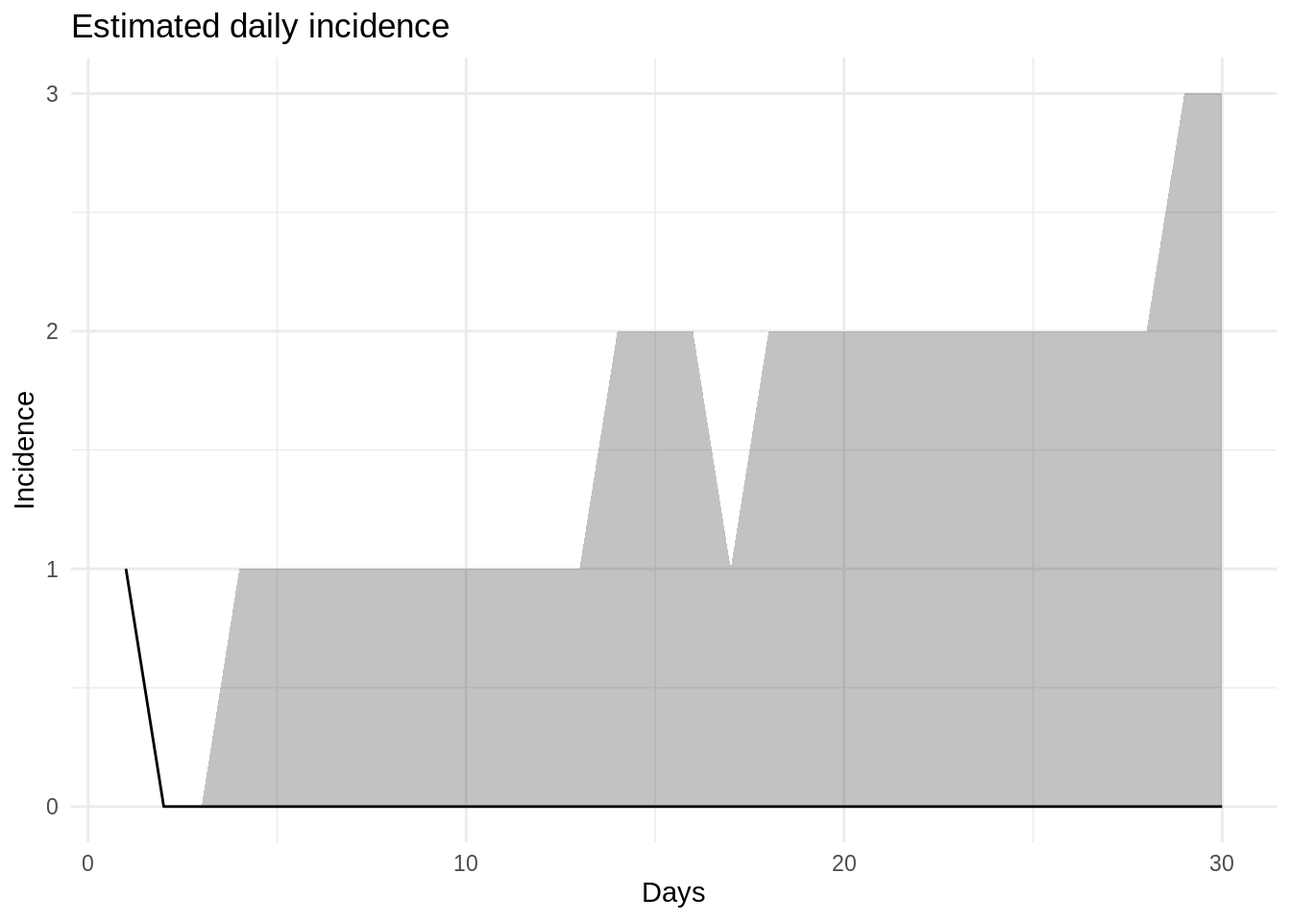
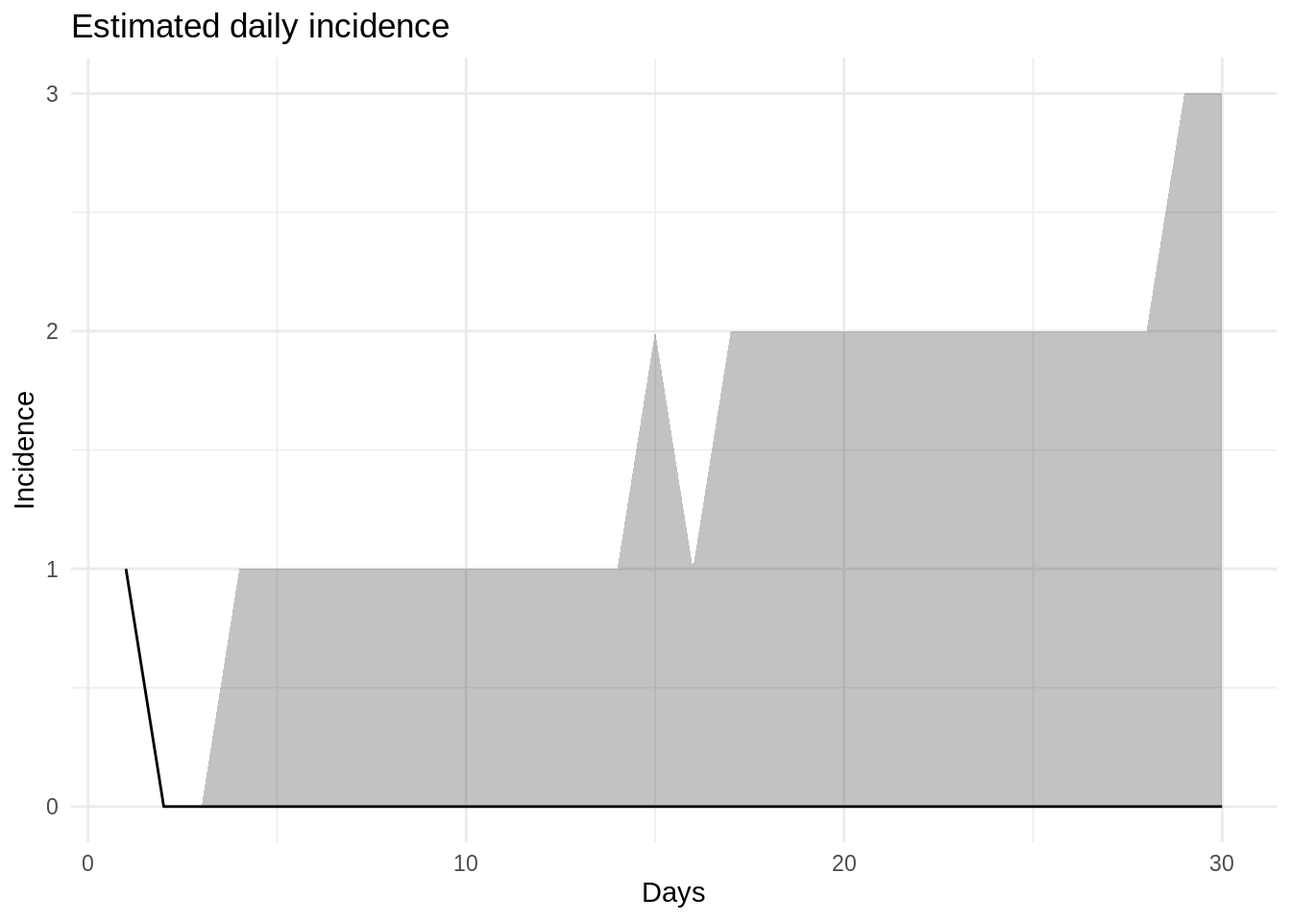
Deploy folkehelseinstituttet/spread to github.com/folkehelseinstituttet/spread.git:gh-pages

Changed region(s): [[0.4375, 0.3438, 0.5938, 0.625]]

diff --git a/articles/asymmetric_mobility_intro.html b/articles/asymmetric_mobility_intro.html
@@ -104,7 +104,7 @@
 <div class="sourceCode" id="cb1"><pre class="sourceCode r"><code class="sourceCode r"><a class="sourceLine" id="cb1-1" data-line-number="1"><span class="kw"><a href="https://rdrr.io/r/base/library.html">library</a></span>(spread)</a>
 <a class="sourceLine" id="cb1-2" data-line-number="2"><span class="co">#&gt; </span></a>
 <a class="sourceLine" id="cb1-3" data-line-number="3"><span class="co">#&gt; PACKAGE: spread</span></a>
-<a class="sourceLine" id="cb1-4" data-line-number="4"><span class="co">#&gt; Version: 2020.03.06 at 07:08</span></a>
+<a class="sourceLine" id="cb1-4" data-line-number="4"><span class="co">#&gt; Version: 2020.03.06 at 09:24</span></a>
 <a class="sourceLine" id="cb1-5" data-line-number="5"><span class="co">#&gt; </span></a>
 <a class="sourceLine" id="cb1-6" data-line-number="6"><span class="co">#&gt; Commuter model and C++ code developed by Solveig Engebretsen and Andreas Nygård Osnes</span></a>
 <a class="sourceLine" id="cb1-7" data-line-number="7"><span class="co">#&gt; Asymmetric mobility model and C++ code developed by Solveig Engebretsen</span></a>
@@ -152,130 +152,38 @@
 <p><code>b_*</code> variables represent the status of people belonging to a particular geographical location.</p>
 <p><code>c_*</code> variables represent the current status of all the people existing in that geographical location at that time point.</p>
 <div class="sourceCode" id="cb6"><pre class="sourceCode r"><code class="sourceCode r"><a class="sourceLine" id="cb6-1" data-line-number="1"><span class="kw"><a href="https://rdrr.io/r/base/print.html">print</a></span>(d)</a>
-<a class="sourceLine" id="cb6-2" data-line-number="2"><span class="co">#&gt;     location_code week day time  b_S b_E b_I b_Ia b_R  c_S c_E c_I c_Ia c_R</span></a>
-<a class="sourceLine" id="cb6-3" data-line-number="3"><span class="co">#&gt;  1:             a    1   1    0 1051   9  45    0   5 1011   9  45    0   5</span></a>
-<a class="sourceLine" id="cb6-4" data-line-number="4"><span class="co">#&gt;  2:             a    1   1    6 1042  18  38    0  12  962  18  38    0  12</span></a>
-<a class="sourceLine" id="cb6-5" data-line-number="5"><span class="co">#&gt;  3:             a    1   1   12 1038  22  34    0  16  921  21  32    0  16</span></a>
-<a class="sourceLine" id="cb6-6" data-line-number="6"><span class="co">#&gt;  4:             a    1   1   18 1034  20  37    0  19  880  20  34    0  16</span></a>
-<a class="sourceLine" id="cb6-7" data-line-number="7"><span class="co">#&gt;  5:             a    1   2    0 1029  22  36    0  23  840  21  31    0  18</span></a>
-<a class="sourceLine" id="cb6-8" data-line-number="8"><span class="co">#&gt;  6:             a    1   2    6 1026  21  38    0  25  801  18  33    0  18</span></a>
-<a class="sourceLine" id="cb6-9" data-line-number="9"><span class="co">#&gt;  7:             a    1   2   12 1024  19  41    0  26  763  16  34    0  17</span></a>
-<a class="sourceLine" id="cb6-10" data-line-number="10"><span class="co">#&gt;  8:             a    1   2   18 1021  18  43    0  28  720  15  36    0  19</span></a>
-<a class="sourceLine" id="cb6-11" data-line-number="11"><span class="co">#&gt;  9:             a    1   3    0 1016  20  44    0  30  681  16  35    0  18</span></a>
-<a class="sourceLine" id="cb6-12" data-line-number="12"><span class="co">#&gt; 10:             a    1   3    6 1012  23  43    0  32  642  19  30    0  19</span></a>
-<a class="sourceLine" id="cb6-13" data-line-number="13"><span class="co">#&gt; 11:             a    1   3   12 1007  27  34    0  42  605  21  20    0  24</span></a>
-<a class="sourceLine" id="cb6-14" data-line-number="14"><span class="co">#&gt; 12:             a    1   3   18 1001  30  36    0  43  564  22  20    0  24</span></a>
-<a class="sourceLine" id="cb6-15" data-line-number="15"><span class="co">#&gt; 13:             a    1   4    0  999  28  38    0  45  525  19  20    0  26</span></a>
-<a class="sourceLine" id="cb6-16" data-line-number="16"><span class="co">#&gt; 14:             a    1   4    6  996  28  35    0  51  490  19  16    0  25</span></a>
-<a class="sourceLine" id="cb6-17" data-line-number="17"><span class="co">#&gt; 15:             a    1   4   12  992  29  36    0  53  452  19  15    0  24</span></a>
-<a class="sourceLine" id="cb6-18" data-line-number="18"><span class="co">#&gt; 16:             a    1   4   18  986  33  34    0  57  414  24  12    0  20</span></a>
-<a class="sourceLine" id="cb6-19" data-line-number="19"><span class="co">#&gt; 17:             a    1   5    0  985  26  40    0  59  378  17  14    0  21</span></a>
-<a class="sourceLine" id="cb6-20" data-line-number="20"><span class="co">#&gt; 18:             a    1   5    6  977  32  39    0  62  335  17  16    0  22</span></a>
-<a class="sourceLine" id="cb6-21" data-line-number="21"><span class="co">#&gt; 19:             a    1   5   12  971  31  43    0  65  299  14  18    0  19</span></a>
-<a class="sourceLine" id="cb6-22" data-line-number="22"><span class="co">#&gt; 20:             a    1   5   18  967  29  46    0  68  264   9  19    0  18</span></a>
-<a class="sourceLine" id="cb6-23" data-line-number="23"><span class="co">#&gt; 21:             b    1   1    0 1020   0   0    0   0 1060   0   0    0   0</span></a>
-<a class="sourceLine" id="cb6-24" data-line-number="24"><span class="co">#&gt; 22:             b    1   1    6 1020   0   0    0   0 1100   0   0    0   0</span></a>
-<a class="sourceLine" id="cb6-25" data-line-number="25"><span class="co">#&gt; 23:             b    1   1   12 1020   0   0    0   0 1138   1   1    0   0</span></a>
-<a class="sourceLine" id="cb6-26" data-line-number="26"><span class="co">#&gt; 24:             b    1   1   18 1020   0   0    0   0 1174   0   3    0   3</span></a>
-<a class="sourceLine" id="cb6-27" data-line-number="27"><span class="co">#&gt; 25:             b    1   2    0 1018   2   0    0   0 1206   4   5    0   5</span></a>
-<a class="sourceLine" id="cb6-28" data-line-number="28"><span class="co">#&gt; 26:             b    1   2    6 1018   2   0    0   0 1243   5   5    0   7</span></a>
-<a class="sourceLine" id="cb6-29" data-line-number="29"><span class="co">#&gt; 27:             b    1   2   12 1017   2   1    0   0 1279   4   8    0   9</span></a>
-<a class="sourceLine" id="cb6-30" data-line-number="30"><span class="co">#&gt; 28:             b    1   2   18 1016   3   1    0   0 1317   6   8    0   9</span></a>
-<a class="sourceLine" id="cb6-31" data-line-number="31"><span class="co">#&gt; 29:             b    1   3    0 1014   5   1    0   0 1351   8   9    0  12</span></a>
-<a class="sourceLine" id="cb6-32" data-line-number="32"><span class="co">#&gt; 30:             b    1   3    6 1013   5   2    0   0 1383   9  15    0  13</span></a>
-<a class="sourceLine" id="cb6-33" data-line-number="33"><span class="co">#&gt; 31:             b    1   3   12 1012   6   1    0   1 1416  12  15    0  17</span></a>
-<a class="sourceLine" id="cb6-34" data-line-number="34"><span class="co">#&gt; 32:             b    1   3   18 1008   8   3    0   1 1445  16  19    0  20</span></a>
-<a class="sourceLine" id="cb6-35" data-line-number="35"><span class="co">#&gt; 33:             b    1   4    0 1004  11   4    0   1 1479  20  21    0  20</span></a>
-<a class="sourceLine" id="cb6-36" data-line-number="36"><span class="co">#&gt; 34:             b    1   4    6 1000  14   5    0   1 1506  23  24    0  27</span></a>
-<a class="sourceLine" id="cb6-37" data-line-number="37"><span class="co">#&gt; 35:             b    1   4   12  997  16   6    0   1 1537  26  27    0  30</span></a>
-<a class="sourceLine" id="cb6-38" data-line-number="38"><span class="co">#&gt; 36:             b    1   4   18  995  18   6    0   1 1567  27  28    0  38</span></a>
-<a class="sourceLine" id="cb6-39" data-line-number="39"><span class="co">#&gt; 37:             b    1   5    0  993  17   9    0   1 1602  25  34    0  39</span></a>
-<a class="sourceLine" id="cb6-40" data-line-number="40"><span class="co">#&gt; 38:             b    1   5    6  990  17  10    0   3 1632  32  33    0  43</span></a>
-<a class="sourceLine" id="cb6-41" data-line-number="41"><span class="co">#&gt; 39:             b    1   5   12  987  18  11    0   4 1660  35  35    0  50</span></a>
-<a class="sourceLine" id="cb6-42" data-line-number="42"><span class="co">#&gt; 40:             b    1   5   18  986  17  13    0   4 1689  37  40    0  54</span></a>
-<a class="sourceLine" id="cb6-43" data-line-number="43"><span class="co">#&gt; 41:             c    1   1    0 2020   0   0    0   0 2020   0   0    0   0</span></a>
-<a class="sourceLine" id="cb6-44" data-line-number="44"><span class="co">#&gt; 42:             c    1   1    6 2020   0   0    0   0 2020   0   0    0   0</span></a>
-<a class="sourceLine" id="cb6-45" data-line-number="45"><span class="co">#&gt; 43:             c    1   1   12 2020   0   0    0   0 2019   0   1    0   0</span></a>
-<a class="sourceLine" id="cb6-46" data-line-number="46"><span class="co">#&gt; 44:             c    1   1   18 2020   0   0    0   0 2020   0   0    0   0</span></a>
-<a class="sourceLine" id="cb6-47" data-line-number="47"><span class="co">#&gt; 45:             c    1   2    0 2019   1   0    0   0 2020   0   0    0   0</span></a>
-<a class="sourceLine" id="cb6-48" data-line-number="48"><span class="co">#&gt; 46:             c    1   2    6 2019   1   0    0   0 2019   1   0    0   0</span></a>
-<a class="sourceLine" id="cb6-49" data-line-number="49"><span class="co">#&gt; 47:             c    1   2   12 2019   1   0    0   0 2018   2   0    0   0</span></a>
-<a class="sourceLine" id="cb6-50" data-line-number="50"><span class="co">#&gt; 48:             c    1   2   18 2019   1   0    0   0 2019   1   0    0   0</span></a>
-<a class="sourceLine" id="cb6-51" data-line-number="51"><span class="co">#&gt; 49:             c    1   3    0 2019   1   0    0   0 2017   2   1    0   0</span></a>
-<a class="sourceLine" id="cb6-52" data-line-number="52"><span class="co">#&gt; 50:             c    1   3    6 2019   1   0    0   0 2019   1   0    0   0</span></a>
-<a class="sourceLine" id="cb6-53" data-line-number="53"><span class="co">#&gt; 51:             c    1   3   12 2019   1   0    0   0 2017   1   0    0   2</span></a>
-<a class="sourceLine" id="cb6-54" data-line-number="54"><span class="co">#&gt; 52:             c    1   3   18 2019   1   0    0   0 2019   1   0    0   0</span></a>
-<a class="sourceLine" id="cb6-55" data-line-number="55"><span class="co">#&gt; 53:             c    1   4    0 2019   0   1    0   0 2018   0   2    0   0</span></a>
-<a class="sourceLine" id="cb6-56" data-line-number="56"><span class="co">#&gt; 54:             c    1   4    6 2019   0   1    0   0 2019   0   1    0   0</span></a>
-<a class="sourceLine" id="cb6-57" data-line-number="57"><span class="co">#&gt; 55:             c    1   4   12 2019   0   1    0   0 2019   0   1    0   0</span></a>
-<a class="sourceLine" id="cb6-58" data-line-number="58"><span class="co">#&gt; 56:             c    1   4   18 2019   0   1    0   0 2019   0   1    0   0</span></a>
-<a class="sourceLine" id="cb6-59" data-line-number="59"><span class="co">#&gt; 57:             c    1   5    0 2019   0   1    0   0 2017   1   2    0   0</span></a>
-<a class="sourceLine" id="cb6-60" data-line-number="60"><span class="co">#&gt; 58:             c    1   5    6 2019   0   1    0   0 2019   0   1    0   0</span></a>
-<a class="sourceLine" id="cb6-61" data-line-number="61"><span class="co">#&gt; 59:             c    1   5   12 2019   0   1    0   0 2018   0   2    0   0</span></a>
-<a class="sourceLine" id="cb6-62" data-line-number="62"><span class="co">#&gt; 60:             c    1   5   18 2019   0   1    0   0 2019   0   1    0   0</span></a>
-<a class="sourceLine" id="cb6-63" data-line-number="63"><span class="co">#&gt;     location_code week day time  b_S b_E b_I b_Ia b_R  c_S c_E c_I c_Ia c_R</span></a>
-<a class="sourceLine" id="cb6-64" data-line-number="64"><span class="co">#&gt;     c_incidence</span></a>
-<a class="sourceLine" id="cb6-65" data-line-number="65"><span class="co">#&gt;  1:           0</span></a>
-<a class="sourceLine" id="cb6-66" data-line-number="66"><span class="co">#&gt;  2:           0</span></a>
-<a class="sourceLine" id="cb6-67" data-line-number="67"><span class="co">#&gt;  3:           0</span></a>
-<a class="sourceLine" id="cb6-68" data-line-number="68"><span class="co">#&gt;  4:           5</span></a>
-<a class="sourceLine" id="cb6-69" data-line-number="69"><span class="co">#&gt;  5:           2</span></a>
-<a class="sourceLine" id="cb6-70" data-line-number="70"><span class="co">#&gt;  6:           3</span></a>
-<a class="sourceLine" id="cb6-71" data-line-number="71"><span class="co">#&gt;  7:           2</span></a>
-<a class="sourceLine" id="cb6-72" data-line-number="72"><span class="co">#&gt;  8:           4</span></a>
-<a class="sourceLine" id="cb6-73" data-line-number="73"><span class="co">#&gt;  9:           2</span></a>
-<a class="sourceLine" id="cb6-74" data-line-number="74"><span class="co">#&gt; 10:           1</span></a>
-<a class="sourceLine" id="cb6-75" data-line-number="75"><span class="co">#&gt; 11:           0</span></a>
-<a class="sourceLine" id="cb6-76" data-line-number="76"><span class="co">#&gt; 12:           3</span></a>
-<a class="sourceLine" id="cb6-77" data-line-number="77"><span class="co">#&gt; 13:           3</span></a>
-<a class="sourceLine" id="cb6-78" data-line-number="78"><span class="co">#&gt; 14:           0</span></a>
-<a class="sourceLine" id="cb6-79" data-line-number="79"><span class="co">#&gt; 15:           2</span></a>
-<a class="sourceLine" id="cb6-80" data-line-number="80"><span class="co">#&gt; 16:           0</span></a>
-<a class="sourceLine" id="cb6-81" data-line-number="81"><span class="co">#&gt; 17:           6</span></a>
-<a class="sourceLine" id="cb6-82" data-line-number="82"><span class="co">#&gt; 18:           2</span></a>
-<a class="sourceLine" id="cb6-83" data-line-number="83"><span class="co">#&gt; 19:           3</span></a>
-<a class="sourceLine" id="cb6-84" data-line-number="84"><span class="co">#&gt; 20:           3</span></a>
-<a class="sourceLine" id="cb6-85" data-line-number="85"><span class="co">#&gt; 21:           0</span></a>
-<a class="sourceLine" id="cb6-86" data-line-number="86"><span class="co">#&gt; 22:           0</span></a>
-<a class="sourceLine" id="cb6-87" data-line-number="87"><span class="co">#&gt; 23:           0</span></a>
-<a class="sourceLine" id="cb6-88" data-line-number="88"><span class="co">#&gt; 24:           1</span></a>
-<a class="sourceLine" id="cb6-89" data-line-number="89"><span class="co">#&gt; 25:           1</span></a>
-<a class="sourceLine" id="cb6-90" data-line-number="90"><span class="co">#&gt; 26:           1</span></a>
-<a class="sourceLine" id="cb6-91" data-line-number="91"><span class="co">#&gt; 27:           3</span></a>
-<a class="sourceLine" id="cb6-92" data-line-number="92"><span class="co">#&gt; 28:           0</span></a>
-<a class="sourceLine" id="cb6-93" data-line-number="93"><span class="co">#&gt; 29:           1</span></a>
-<a class="sourceLine" id="cb6-94" data-line-number="94"><span class="co">#&gt; 30:           1</span></a>
-<a class="sourceLine" id="cb6-95" data-line-number="95"><span class="co">#&gt; 31:           1</span></a>
-<a class="sourceLine" id="cb6-96" data-line-number="96"><span class="co">#&gt; 32:           2</span></a>
-<a class="sourceLine" id="cb6-97" data-line-number="97"><span class="co">#&gt; 33:           1</span></a>
-<a class="sourceLine" id="cb6-98" data-line-number="98"><span class="co">#&gt; 34:           4</span></a>
-<a class="sourceLine" id="cb6-99" data-line-number="99"><span class="co">#&gt; 35:           2</span></a>
-<a class="sourceLine" id="cb6-100" data-line-number="100"><span class="co">#&gt; 36:           2</span></a>
-<a class="sourceLine" id="cb6-101" data-line-number="101"><span class="co">#&gt; 37:           5</span></a>
-<a class="sourceLine" id="cb6-102" data-line-number="102"><span class="co">#&gt; 38:           3</span></a>
-<a class="sourceLine" id="cb6-103" data-line-number="103"><span class="co">#&gt; 39:           5</span></a>
-<a class="sourceLine" id="cb6-104" data-line-number="104"><span class="co">#&gt; 40:           5</span></a>
-<a class="sourceLine" id="cb6-105" data-line-number="105"><span class="co">#&gt; 41:           0</span></a>
-<a class="sourceLine" id="cb6-106" data-line-number="106"><span class="co">#&gt; 42:           0</span></a>
-<a class="sourceLine" id="cb6-107" data-line-number="107"><span class="co">#&gt; 43:           0</span></a>
-<a class="sourceLine" id="cb6-108" data-line-number="108"><span class="co">#&gt; 44:           0</span></a>
-<a class="sourceLine" id="cb6-109" data-line-number="109"><span class="co">#&gt; 45:           0</span></a>
-<a class="sourceLine" id="cb6-110" data-line-number="110"><span class="co">#&gt; 46:           0</span></a>
-<a class="sourceLine" id="cb6-111" data-line-number="111"><span class="co">#&gt; 47:           0</span></a>
-<a class="sourceLine" id="cb6-112" data-line-number="112"><span class="co">#&gt; 48:           0</span></a>
-<a class="sourceLine" id="cb6-113" data-line-number="113"><span class="co">#&gt; 49:           0</span></a>
-<a class="sourceLine" id="cb6-114" data-line-number="114"><span class="co">#&gt; 50:           0</span></a>
-<a class="sourceLine" id="cb6-115" data-line-number="115"><span class="co">#&gt; 51:           0</span></a>
-<a class="sourceLine" id="cb6-116" data-line-number="116"><span class="co">#&gt; 52:           0</span></a>
-<a class="sourceLine" id="cb6-117" data-line-number="117"><span class="co">#&gt; 53:           2</span></a>
-<a class="sourceLine" id="cb6-118" data-line-number="118"><span class="co">#&gt; 54:           0</span></a>
-<a class="sourceLine" id="cb6-119" data-line-number="119"><span class="co">#&gt; 55:           0</span></a>
-<a class="sourceLine" id="cb6-120" data-line-number="120"><span class="co">#&gt; 56:           0</span></a>
-<a class="sourceLine" id="cb6-121" data-line-number="121"><span class="co">#&gt; 57:           0</span></a>
-<a class="sourceLine" id="cb6-122" data-line-number="122"><span class="co">#&gt; 58:           0</span></a>
-<a class="sourceLine" id="cb6-123" data-line-number="123"><span class="co">#&gt; 59:           1</span></a>
-<a class="sourceLine" id="cb6-124" data-line-number="124"><span class="co">#&gt; 60:           0</span></a>
-<a class="sourceLine" id="cb6-125" data-line-number="125"><span class="co">#&gt;     c_incidence</span></a></code></pre></div>
+<a class="sourceLine" id="cb6-2" data-line-number="2"><span class="co">#&gt;     location_code week day  time  b_S b_E b_I b_Ia b_R  c_S c_E c_I c_Ia c_R</span></a>
+<a class="sourceLine" id="cb6-3" data-line-number="3"><span class="co">#&gt;  1:             a    1   1 23:59  986  11  35    0  18  835   9  32    0  14</span></a>
+<a class="sourceLine" id="cb6-4" data-line-number="4"><span class="co">#&gt;  2:             a    1   2 23:59  967  23  34    0  26  670  20  21    0  19</span></a>
+<a class="sourceLine" id="cb6-5" data-line-number="5"><span class="co">#&gt;  3:             a    1   3 23:59  959  21  37    0  33  516  14  21    0  19</span></a>
+<a class="sourceLine" id="cb6-6" data-line-number="6"><span class="co">#&gt;  4:             a    1   4 23:59  943  26  36    0  45  359  15  15    0  21</span></a>
+<a class="sourceLine" id="cb6-7" data-line-number="7"><span class="co">#&gt;  5:             a    1   5 23:59  934  26  33    0  57  217   9  10    0  14</span></a>
+<a class="sourceLine" id="cb6-8" data-line-number="8"><span class="co">#&gt;  6:             b    1   1 23:59  999   1   0    0   0 1150   3   3    0   4</span></a>
+<a class="sourceLine" id="cb6-9" data-line-number="9"><span class="co">#&gt;  7:             b    1   2 23:59  995   5   0    0   0 1292   8  13    0   7</span></a>
+<a class="sourceLine" id="cb6-10" data-line-number="10"><span class="co">#&gt;  8:             b    1   3 23:59  993   5   1    0   1 1436  12  17    0  15</span></a>
+<a class="sourceLine" id="cb6-11" data-line-number="11"><span class="co">#&gt;  9:             b    1   4 23:59  986   8   5    0   1 1570  19  26    0  25</span></a>
+<a class="sourceLine" id="cb6-12" data-line-number="12"><span class="co">#&gt; 10:             b    1   5 23:59  978   9  10    0   3 1695  26  33    0  46</span></a>
+<a class="sourceLine" id="cb6-13" data-line-number="13"><span class="co">#&gt; 11:             c    1   1 23:59 2000   0   0    0   0 2000   0   0    0   0</span></a>
+<a class="sourceLine" id="cb6-14" data-line-number="14"><span class="co">#&gt; 12:             c    1   2 23:59 2000   0   0    0   0 2000   0   0    0   0</span></a>
+<a class="sourceLine" id="cb6-15" data-line-number="15"><span class="co">#&gt; 13:             c    1   3 23:59 1999   1   0    0   0 1999   1   0    0   0</span></a>
+<a class="sourceLine" id="cb6-16" data-line-number="16"><span class="co">#&gt; 14:             c    1   4 23:59 1997   2   1    0   0 1997   2   1    0   0</span></a>
+<a class="sourceLine" id="cb6-17" data-line-number="17"><span class="co">#&gt; 15:             c    1   5 23:59 1995   3   2    0   0 1995   3   2    0   0</span></a>
+<a class="sourceLine" id="cb6-18" data-line-number="18"><span class="co">#&gt;     c_incidence</span></a>
+<a class="sourceLine" id="cb6-19" data-line-number="19"><span class="co">#&gt;  1:           1</span></a>
+<a class="sourceLine" id="cb6-20" data-line-number="20"><span class="co">#&gt;  2:           2</span></a>
+<a class="sourceLine" id="cb6-21" data-line-number="21"><span class="co">#&gt;  3:           2</span></a>
+<a class="sourceLine" id="cb6-22" data-line-number="22"><span class="co">#&gt;  4:           1</span></a>
+<a class="sourceLine" id="cb6-23" data-line-number="23"><span class="co">#&gt;  5:           1</span></a>
+<a class="sourceLine" id="cb6-24" data-line-number="24"><span class="co">#&gt;  6:           0</span></a>
+<a class="sourceLine" id="cb6-25" data-line-number="25"><span class="co">#&gt;  7:           0</span></a>
+<a class="sourceLine" id="cb6-26" data-line-number="26"><span class="co">#&gt;  8:           0</span></a>
+<a class="sourceLine" id="cb6-27" data-line-number="27"><span class="co">#&gt;  9:           4</span></a>
+<a class="sourceLine" id="cb6-28" data-line-number="28"><span class="co">#&gt; 10:           7</span></a>
+<a class="sourceLine" id="cb6-29" data-line-number="29"><span class="co">#&gt; 11:           0</span></a>
+<a class="sourceLine" id="cb6-30" data-line-number="30"><span class="co">#&gt; 12:           0</span></a>
+<a class="sourceLine" id="cb6-31" data-line-number="31"><span class="co">#&gt; 13:           0</span></a>
+<a class="sourceLine" id="cb6-32" data-line-number="32"><span class="co">#&gt; 14:           0</span></a>
+<a class="sourceLine" id="cb6-33" data-line-number="33"><span class="co">#&gt; 15:           0</span></a></code></pre></div>
 </div>
   </div>
 

diff --git a/reference/asymmetric_mobility.html b/reference/asymmetric_mobility.html
@@ -192,130 +192,38 @@
   <span class='kw'>asymptomatic_prob</span> <span class='kw'>=</span> <span class='fl'>0</span>,
   <span class='kw'>asymptomatic_relative_infectiousness</span> <span class='kw'>=</span> <span class='fl'>0</span>,
   <span class='kw'>N</span> <span class='kw'>=</span> <span class='fl'>1</span>
-)</div><div class='output co'>#&gt;     location_code week day time  b_S b_E b_I b_Ia b_R  c_S c_E c_I c_Ia c_R
-#&gt;  1:             a    1   1    0 1050  10  48    0   2 1010  10  48    0   2
-#&gt;  2:             a    1   1    6 1045  14  45    0   6  968  14  42    0   6
-#&gt;  3:             a    1   1   12 1041  17  45    0   7  929  17  37    0   7
-#&gt;  4:             a    1   1   18 1035  23  42    0  10  886  23  33    0   8
-#&gt;  5:             a    1   2    0 1031  25  40    0  14  843  24  31    0  12
-#&gt;  6:             a    1   2    6 1026  27  42    0  15  801  24  34    0  11
-#&gt;  7:             a    1   2   12 1022  28  40    0  20  764  26  26    0  14
-#&gt;  8:             a    1   2   18 1019  28  39    0  24  723  25  24    0  18
-#&gt;  9:             a    1   3    0 1018  28  32    0  32  685  24  19    0  22
-#&gt; 10:             a    1   3    6 1014  29  33    0  34  644  24  18    0  24
-#&gt; 11:             a    1   3   12 1012  26  30    0  42  607  19  16    0  28
-#&gt; 12:             a    1   3   18 1012  23  31    0  44  571  17  15    0  27
-#&gt; 13:             a    1   4    0 1009  19  37    0  45  538   8  19    0  25
-#&gt; 14:             a    1   4    6 1007  18  37    0  48  502   7  17    0  24
-#&gt; 15:             a    1   4   12 1004  18  38    0  50  463   9  14    0  24
-#&gt; 16:             a    1   4   18  999  22  35    0  54  420  11  16    0  23
-#&gt; 17:             a    1   5    0  995  25  28    0  62  379  14  11    0  26
-#&gt; 18:             a    1   5    6  992  27  25    0  66  340  15   8    0  27
-#&gt; 19:             a    1   5   12  990  22  29    0  69  306   9   8    0  27
-#&gt; 20:             a    1   5   18  985  24  28    0  73  268   8   8    0  26
-#&gt; 21:             b    1   1    0 1020   0   0    0   0 1060   0   0    0   0
-#&gt; 22:             b    1   1    6 1019   1   0    0   0 1096   1   3    0   0
-#&gt; 23:             b    1   1   12 1017   2   1    0   0 1129   2   9    0   0
-#&gt; 24:             b    1   1   18 1017   2   1    0   0 1166   2  10    0   2
-#&gt; 25:             b    1   2    0 1017   2   1    0   0 1205   3  10    0   2
-#&gt; 26:             b    1   2    6 1017   2   0    0   1 1242   5   8    0   5
-#&gt; 27:             b    1   2   12 1016   3   0    0   1 1276   5  13    0   6
-#&gt; 28:             b    1   2   18 1015   3   1    0   1 1311   6  16    0   7
-#&gt; 29:             b    1   3    0 1012   5   2    0   1 1345   9  15    0  11
-#&gt; 30:             b    1   3    6 1010   6   3    0   1 1380  11  18    0  11
-#&gt; 31:             b    1   3   12 1007   8   4    0   1 1413  14  18    0  15
-#&gt; 32:             b    1   3   18 1004  11   4    0   1 1445  17  20    0  18
-#&gt; 33:             b    1   4    0 1003   8   8    0   1 1476  18  26    0  20
-#&gt; 34:             b    1   4    6 1000  11   8    0   1 1505  22  28    0  25
-#&gt; 35:             b    1   4   12 1000   8  11    0   1 1543  17  34    0  26
-#&gt; 36:             b    1   4   18  999   9  10    0   2 1578  20  29    0  33
-#&gt; 37:             b    1   5    0  997   9   8    0   6 1614  20  24    0  42
-#&gt; 38:             b    1   5    6  993  10  11    0   6 1645  22  28    0  45
-#&gt; 39:             b    1   5   12  989  12  12    0   7 1675  25  32    0  48
-#&gt; 40:             b    1   5   18  984  14  15    0   7 1701  30  35    0  54
-#&gt; 41:             c    1   1    0 2020   0   0    0   0 2020   0   0    0   0
-#&gt; 42:             c    1   1    6 2020   0   0    0   0 2020   0   0    0   0
-#&gt; 43:             c    1   1   12 2020   0   0    0   0 2020   0   0    0   0
-#&gt; 44:             c    1   1   18 2020   0   0    0   0 2020   0   0    0   0
-#&gt; 45:             c    1   2    0 2020   0   0    0   0 2020   0   0    0   0
-#&gt; 46:             c    1   2    6 2020   0   0    0   0 2020   0   0    0   0
-#&gt; 47:             c    1   2   12 2020   0   0    0   0 2018   0   1    0   1
-#&gt; 48:             c    1   2   18 2020   0   0    0   0 2020   0   0    0   0
-#&gt; 49:             c    1   3    0 2020   0   0    0   0 2020   0   0    0   0
-#&gt; 50:             c    1   3    6 2020   0   0    0   0 2020   0   0    0   0
-#&gt; 51:             c    1   3   12 2020   0   0    0   0 2019   1   0    0   0
-#&gt; 52:             c    1   3   18 2020   0   0    0   0 2020   0   0    0   0
-#&gt; 53:             c    1   4    0 2020   0   0    0   0 2018   1   0    0   1
-#&gt; 54:             c    1   4    6 2020   0   0    0   0 2020   0   0    0   0
-#&gt; 55:             c    1   4   12 2020   0   0    0   0 2018   0   1    0   1
-#&gt; 56:             c    1   4   18 2020   0   0    0   0 2020   0   0    0   0
-#&gt; 57:             c    1   5    0 2020   0   0    0   0 2019   0   1    0   0
-#&gt; 58:             c    1   5    6 2020   0   0    0   0 2020   0   0    0   0
-#&gt; 59:             c    1   5   12 2020   0   0    0   0 2018   0   1    0   1
-#&gt; 60:             c    1   5   18 2020   0   0    0   0 2020   0   0    0   0
-#&gt;     location_code week day time  b_S b_E b_I b_Ia b_R  c_S c_E c_I c_Ia c_R
+)</div><div class='output co'>#&gt;     location_code week day  time  b_S b_E b_I b_Ia b_R  c_S c_E c_I c_Ia c_R
+#&gt;  1:             a    1   1 23:59  975  23  42    0  10  826  23  33    0   8
+#&gt;  2:             a    1   2 23:59  960  27  37    0  26  666  23  23    0  18
+#&gt;  3:             a    1   3 23:59  947  28  33    0  42  510  19  20    0  21
+#&gt;  4:             a    1   4 23:59  932  27  39    0  52  360  12  23    0  15
+#&gt;  5:             a    1   5 23:59  914  29  33    0  74  211   9  11    0  19
+#&gt;  6:             b    1   1 23:59  997   2   1    0   0 1146   2  10    0   2
+#&gt;  7:             b    1   2 23:59  995   3   2    0   0 1289   7  16    0   8
+#&gt;  8:             b    1   3 23:59  985  11   3    0   1 1422  20  16    0  22
+#&gt;  9:             b    1   4 23:59  981   7  10    0   2 1553  22  26    0  39
+#&gt; 10:             b    1   5 23:59  970  11  15    0   4 1673  31  37    0  59
+#&gt; 11:             c    1   1 23:59 2000   0   0    0   0 2000   0   0    0   0
+#&gt; 12:             c    1   2 23:59 2000   0   0    0   0 2000   0   0    0   0
+#&gt; 13:             c    1   3 23:59 2000   0   0    0   0 2000   0   0    0   0
+#&gt; 14:             c    1   4 23:59 2000   0   0    0   0 2000   0   0    0   0
+#&gt; 15:             c    1   5 23:59 2000   0   0    0   0 2000   0   0    0   0
 #&gt;     c_incidence
 #&gt;  1:           0
-#&gt;  2:           1
-#&gt;  3:           1
-#&gt;  4:           0
-#&gt;  5:           2
-#&gt;  6:           2
-#&gt;  7:           2
-#&gt;  8:           3
+#&gt;  2:           3
+#&gt;  3:           2
+#&gt;  4:           2
+#&gt;  5:           1
+#&gt;  6:           0
+#&gt;  7:           1
+#&gt;  8:           1
 #&gt;  9:           1
-#&gt; 10:           3
-#&gt; 11:           5
-#&gt; 12:           2
-#&gt; 13:           6
-#&gt; 14:           1
-#&gt; 15:           0
-#&gt; 16:           1
-#&gt; 17:           0
-#&gt; 18:           0
-#&gt; 19:           1
-#&gt; 20:           1
-#&gt; 21:           0
-#&gt; 22:           0
-#&gt; 23:           1
-#&gt; 24:           0
-#&gt; 25:           0
-#&gt; 26:           1
-#&gt; 27:           1
-#&gt; 28:           1
-#&gt; 29:           1
-#&gt; 30:           1
-#&gt; 31:           1
-#&gt; 32:           1
-#&gt; 33:           5
-#&gt; 34:           2
-#&gt; 35:           5
-#&gt; 36:           0
-#&gt; 37:           2
-#&gt; 38:           4
-#&gt; 39:           7
-#&gt; 40:           5
-#&gt; 41:           0
-#&gt; 42:           0
-#&gt; 43:           0
-#&gt; 44:           0
-#&gt; 45:           0
-#&gt; 46:           0
-#&gt; 47:           0
-#&gt; 48:           0
-#&gt; 49:           0
-#&gt; 50:           0
-#&gt; 51:           0
-#&gt; 52:           0
-#&gt; 53:           0
-#&gt; 54:           0
-#&gt; 55:           1
-#&gt; 56:           0
-#&gt; 57:           1
-#&gt; 58:           0
-#&gt; 59:           1
-#&gt; 60:           0
-#&gt;     c_incidence</div></pre>
+#&gt; 10:           4
+#&gt; 11:           0
+#&gt; 12:           0
+#&gt; 13:           0
+#&gt; 14:           0
+#&gt; 15:           0</div></pre>
   </div>
   <div class="col-md-3 hidden-xs hidden-sm" id="sidebar">
     <h2>Contents</h2>

diff --git a/articles/branching_process.html b/articles/branching_process.html
@@ -139,7 +139,7 @@
 <a class="sourceLine" id="cb4-2" data-line-number="2"><span class="kw"><a href="https://rdrr.io/r/base/print.html">print</a></span>(<span class="kw"><a href="https://rdrr.io/r/stats/median.html">median</a></span>(summary<span class="op">$</span>cumulative[<span class="dv">30</span>,]))</a>
 <a class="sourceLine" id="cb4-3" data-line-number="3"><span class="co">#&gt; [1] 5</span></a>
 <a class="sourceLine" id="cb4-4" data-line-number="4"><span class="kw"><a href="https://rdrr.io/r/base/print.html">print</a></span>(summary<span class="op">$</span>p_no_spread)</a>
-<a class="sourceLine" id="cb4-5" data-line-number="5"><span class="co">#&gt; [1] 0.23</span></a></code></pre></div>
+<a class="sourceLine" id="cb4-5" data-line-number="5"><span class="co">#&gt; [1] 0.263</span></a></code></pre></div>
 <p>The median number of cases is around 50, with a probability of no spread is around 6%.</p>
 </div>
 <div id="estimating-parameters-via-approximate-bayesian-computation-abc" class="section level1">
@@ -171,7 +171,7 @@
 <a class="sourceLine" id="cb5-23" data-line-number="23">  )</a>
 <a class="sourceLine" id="cb5-24" data-line-number="24"><span class="kw"><a href="https://rdrr.io/r/base/print.html">print</a></span>(HDInterval<span class="op">::</span><span class="kw"><a href="https://rdrr.io/pkg/HDInterval/man/hdi.html">hdi</a></span>(r<span class="op">$</span>R0))</a>
 <a class="sourceLine" id="cb5-25" data-line-number="25"><span class="co">#&gt; lower upper </span></a>
-<a class="sourceLine" id="cb5-26" data-line-number="26"><span class="co">#&gt;  2.00  4.35 </span></a>
+<a class="sourceLine" id="cb5-26" data-line-number="26"><span class="co">#&gt;   2.1   4.5 </span></a>
 <a class="sourceLine" id="cb5-27" data-line-number="27"><span class="co">#&gt; attr(,"credMass")</span></a>
 <a class="sourceLine" id="cb5-28" data-line-number="28"><span class="co">#&gt; [1] 0.95</span></a></code></pre></div>
 </div>
